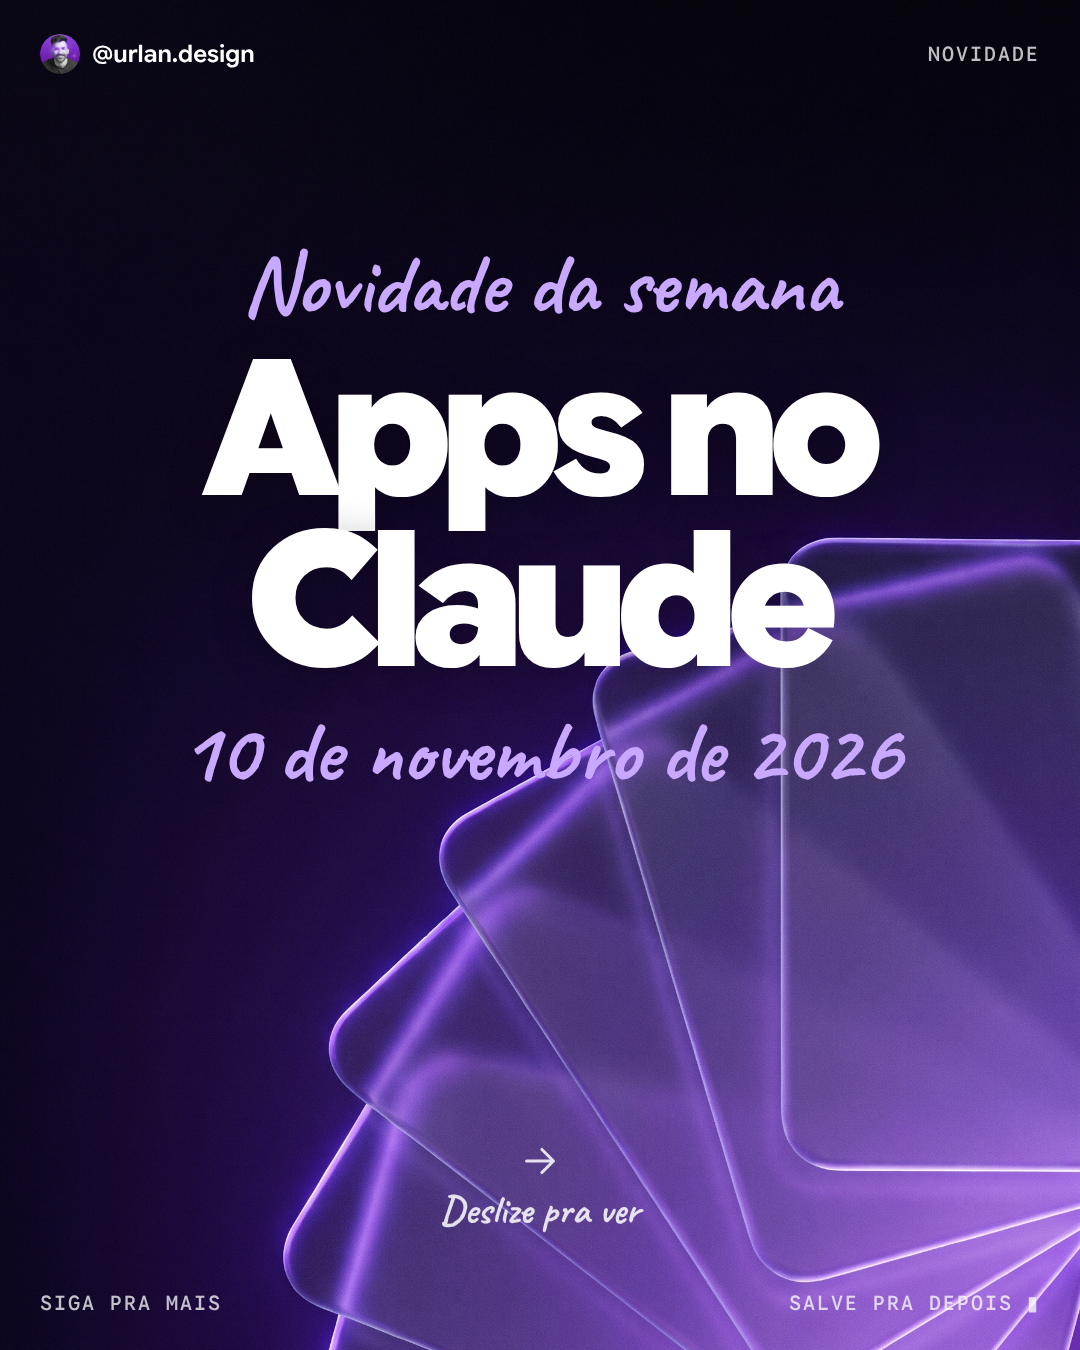
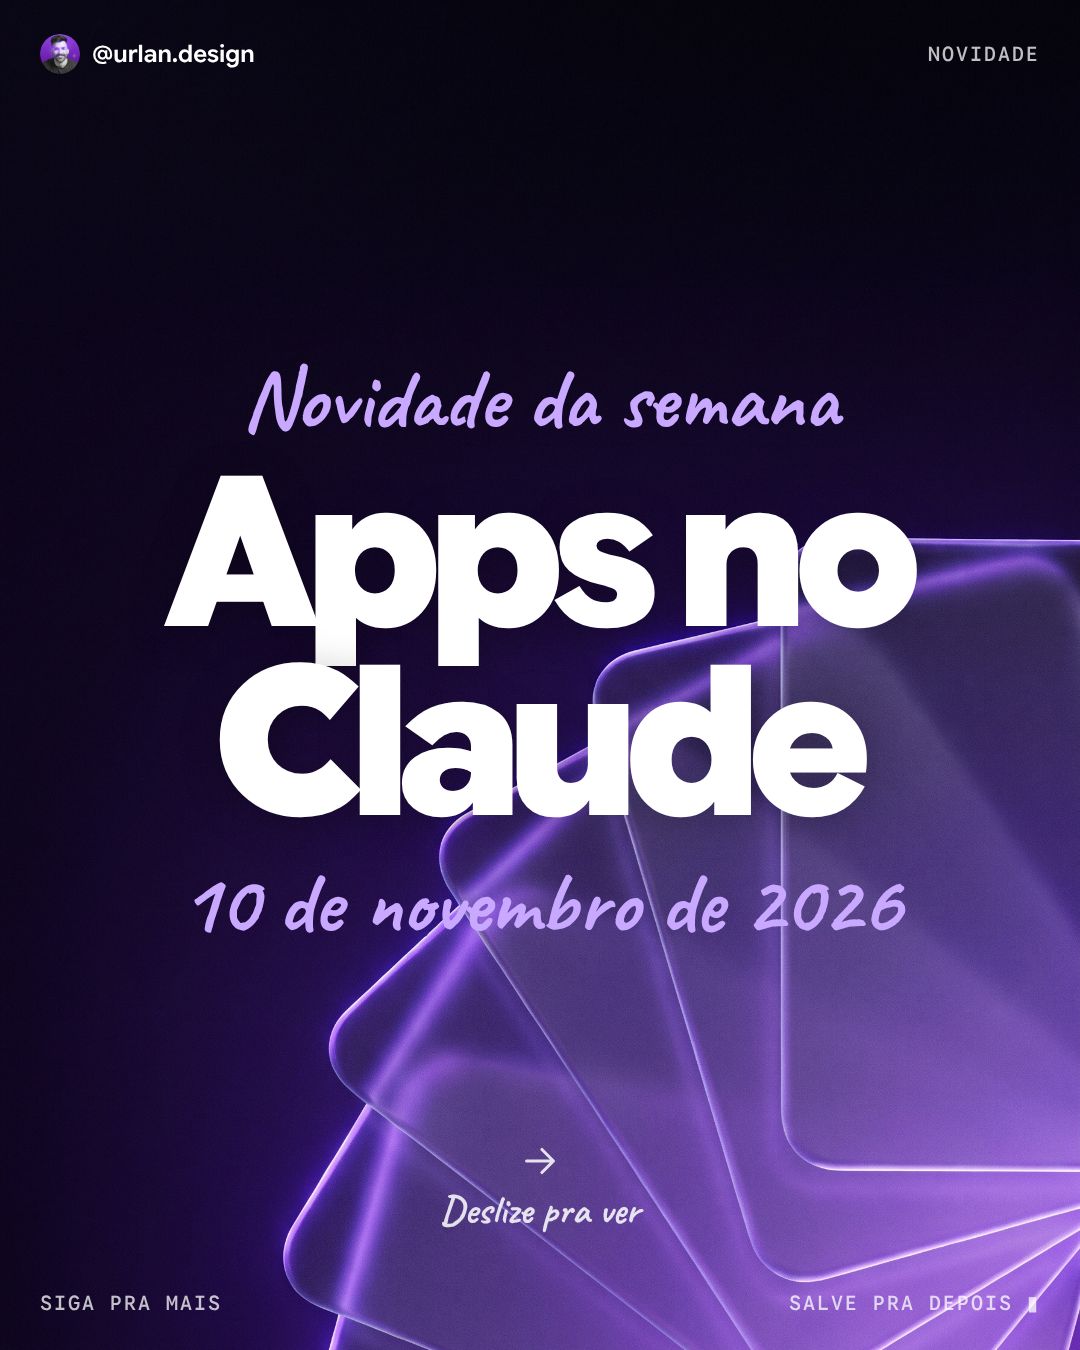
Capa Apps no Claude: titulo na mesma posicao da serie (50%, 210px) e regra no REGRAS.md
Claude-Session: https://claude.ai/code/session_01DwYVZ4p9qWAPLeHrrQbmUv

diff --git a/testes-capa/serie/capa-claude-apps.html b/testes-capa/serie/capa-claude-apps.html
@@ -17,7 +17,7 @@ html,body{margin:0}
 </style></head><body><div class="c">
 <img class="bg" src="bg-claude-apps.png">
 <div class="top"><b><img src="../../template/assets/avatar-hd.webp">@urlan.design</b><span>Novidade</span></div>
-<div class="mid" style="top:40%"><div class="s">Novidade da semana</div><div class="t" style="font-size:190px">Apps no<br>Claude</div><div class="s">10 de novembro de 2026</div></div>
+<div class="mid"><div class="s">Novidade da semana</div><div class="t" style="font-size:210px">Apps no<br>Claude</div><div class="s">10 de novembro de 2026</div></div>
 <div class="sw"><svg width="46" height="46" viewBox="0 0 24 24" fill="none" stroke="rgba(255,255,255,.85)" stroke-width="1.6" stroke-linecap="round" stroke-linejoin="round"><path d="M5 12h14M13 6l6 6-6 6"/></svg>Deslize pra ver</div>
 <div class="foot"><span>Siga pra mais</span><span>Salve pra depois ▮</span></div>
 </div></body></html>

diff --git a/REGRAS.md b/REGRAS.md
@@ -67,6 +67,8 @@ Antes de subir qualquer imagem, reler o texto com estas perguntas e corrigir o q
 - **Toda capa nova usa como referência o Instagram @craftwork.design** (https://www.instagram.com/craftwork.design/), adaptado à marca. Salvo em 05/11/2026.
 - Padrão: estilo "série". Fundo gerado no Nano Banana Pro (diferente a cada post, roxo/lilás, centro calmo), título centralizado em 3 camadas (manuscrita Caveat / tema em Google Sans Flex 800 / manuscrita), uma cor de destaque puxada do fundo, moldura discreta (@ e série no topo; "Deslize pra ver", "Siga pra mais", "Salve pra depois" no rodapé).
 - Template da capa: `testes-capa/serie/capa.tpl.html`. Exemplos aprovados: `capa-repos`, `capa-cd`, `capa1` (color combos), `capa-dia-design-3d`.
+- **Posição do título: igual em todas as capas da série.** Bloco do título (`.mid`) em `top:50%` com `translateY(-54%)`, título em 210px. Não usar `style` inline para subir, descer ou reduzir o título. Se o texto não couber, encurtar o texto, não mover o bloco. Motivo: no feed as capas aparecem lado a lado, e uma capa com o título mais alto parece desalinhada (feedback do Urlan em 12/11/2026, capa "Apps no Claude" estava em 40% e 190px).
+- Antes de agendar uma capa nova, comparar lado a lado com a capa anterior da série (mesma altura do título, mesmo tamanho).
 - Posts de opinião continuam no estilo escuro de texto.
 - Fundo gerado não pode vir com borda de papel/moldura; se vier, gerar de novo em vez de cortar (cortar perde qualidade).
 
